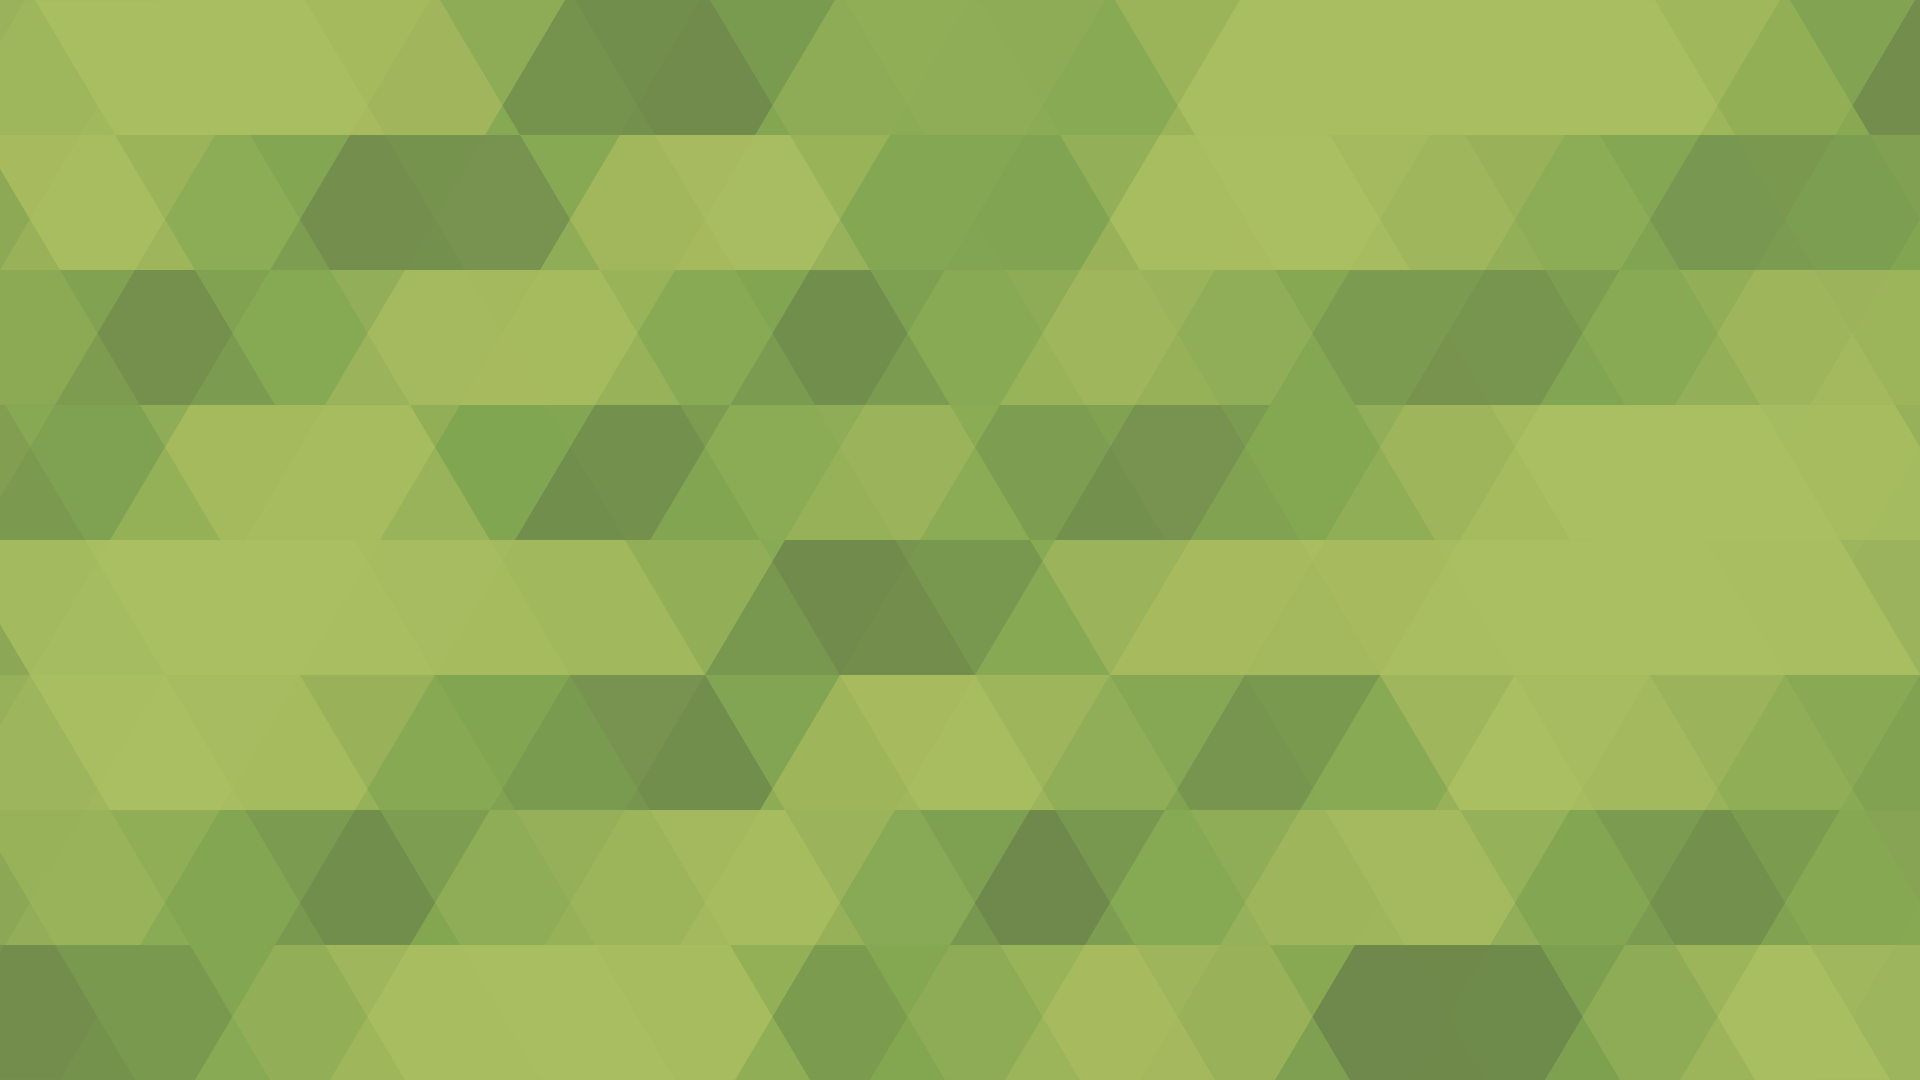
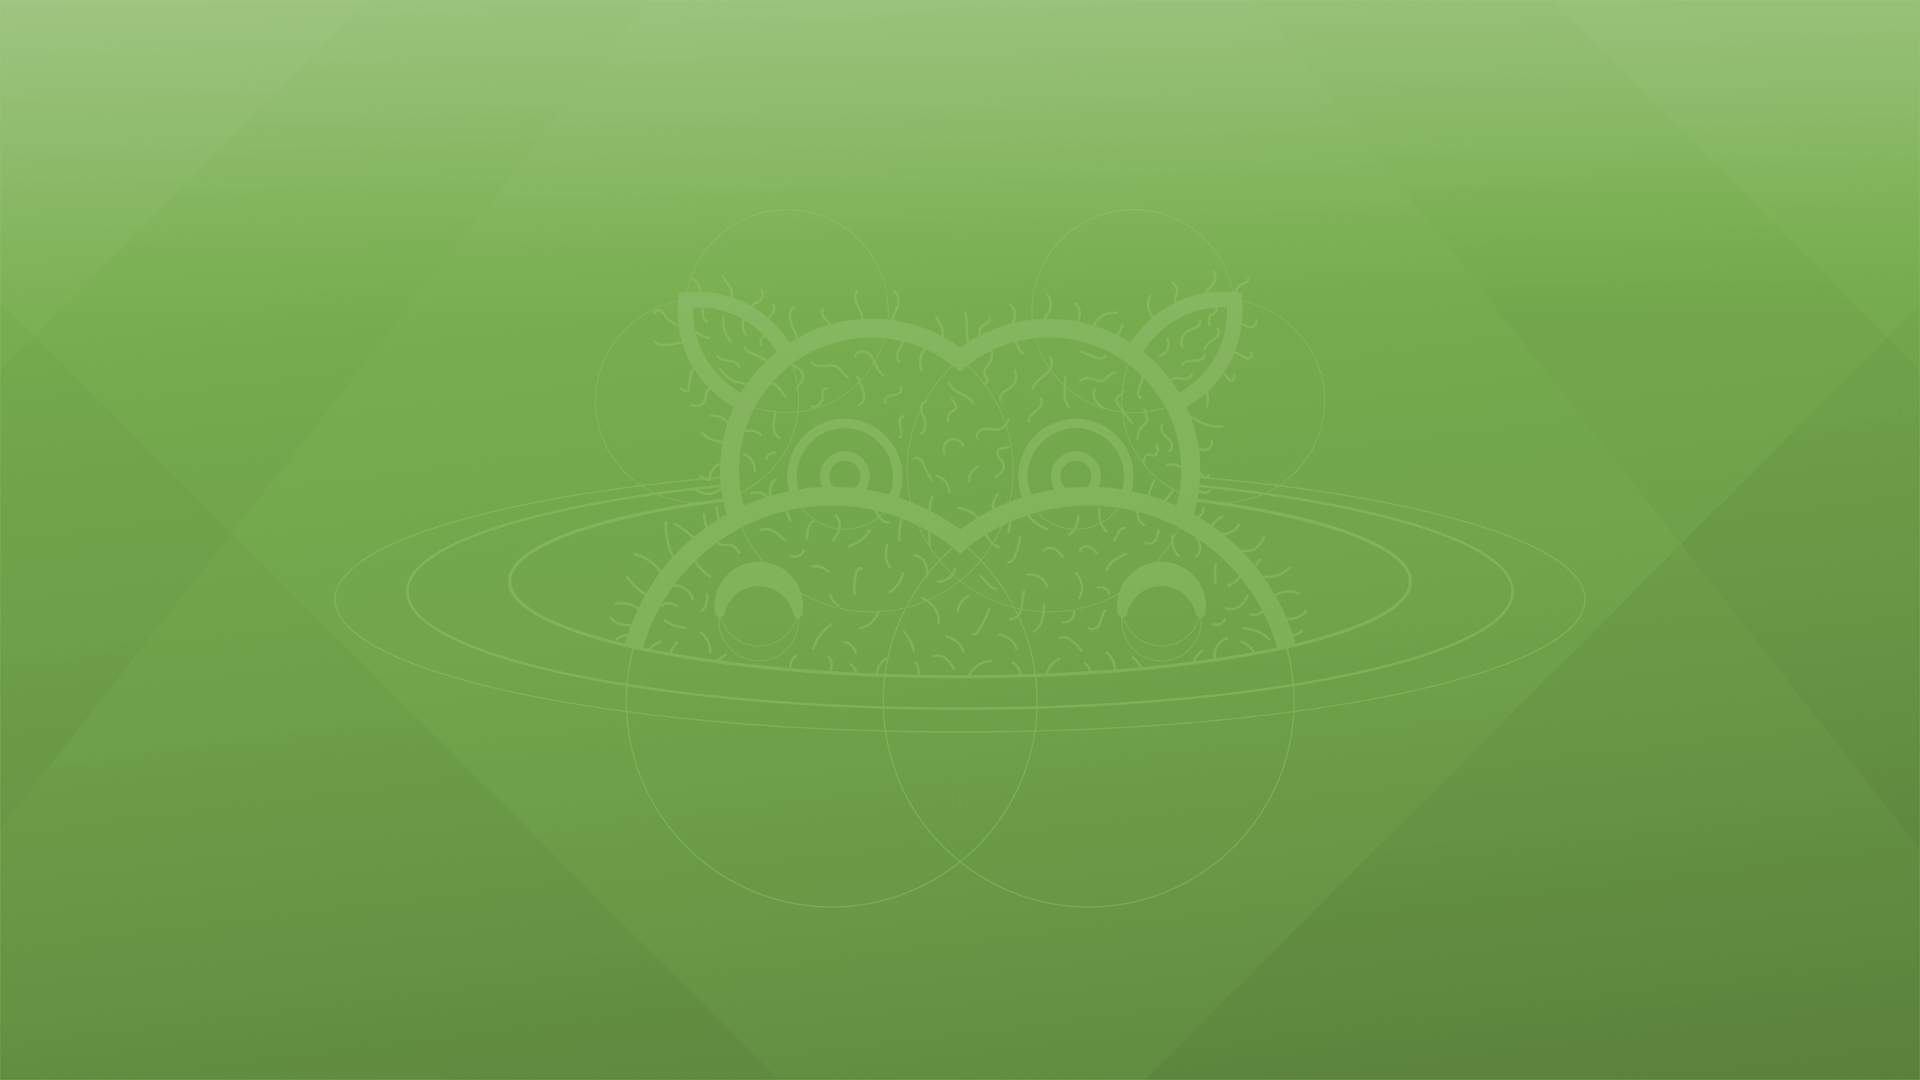
Update background

diff --git a/README.md b/README.md
@@ -1,6 +1,6 @@
 ## Ubuntu MATE GRUB theme
 
-Supported languages: Chinese (simplified), English, French, German, Norwegian, Portuguese, Russian, Spanish, Ukrainian
+Supported languages: English, Chinese (simplified), French, German, Norwegian, Portuguese, Russian, Spanish, Ukrainian
 
 ![Ubuntu MATE GRUB Theme Screenshot](screenshot.png)
 
